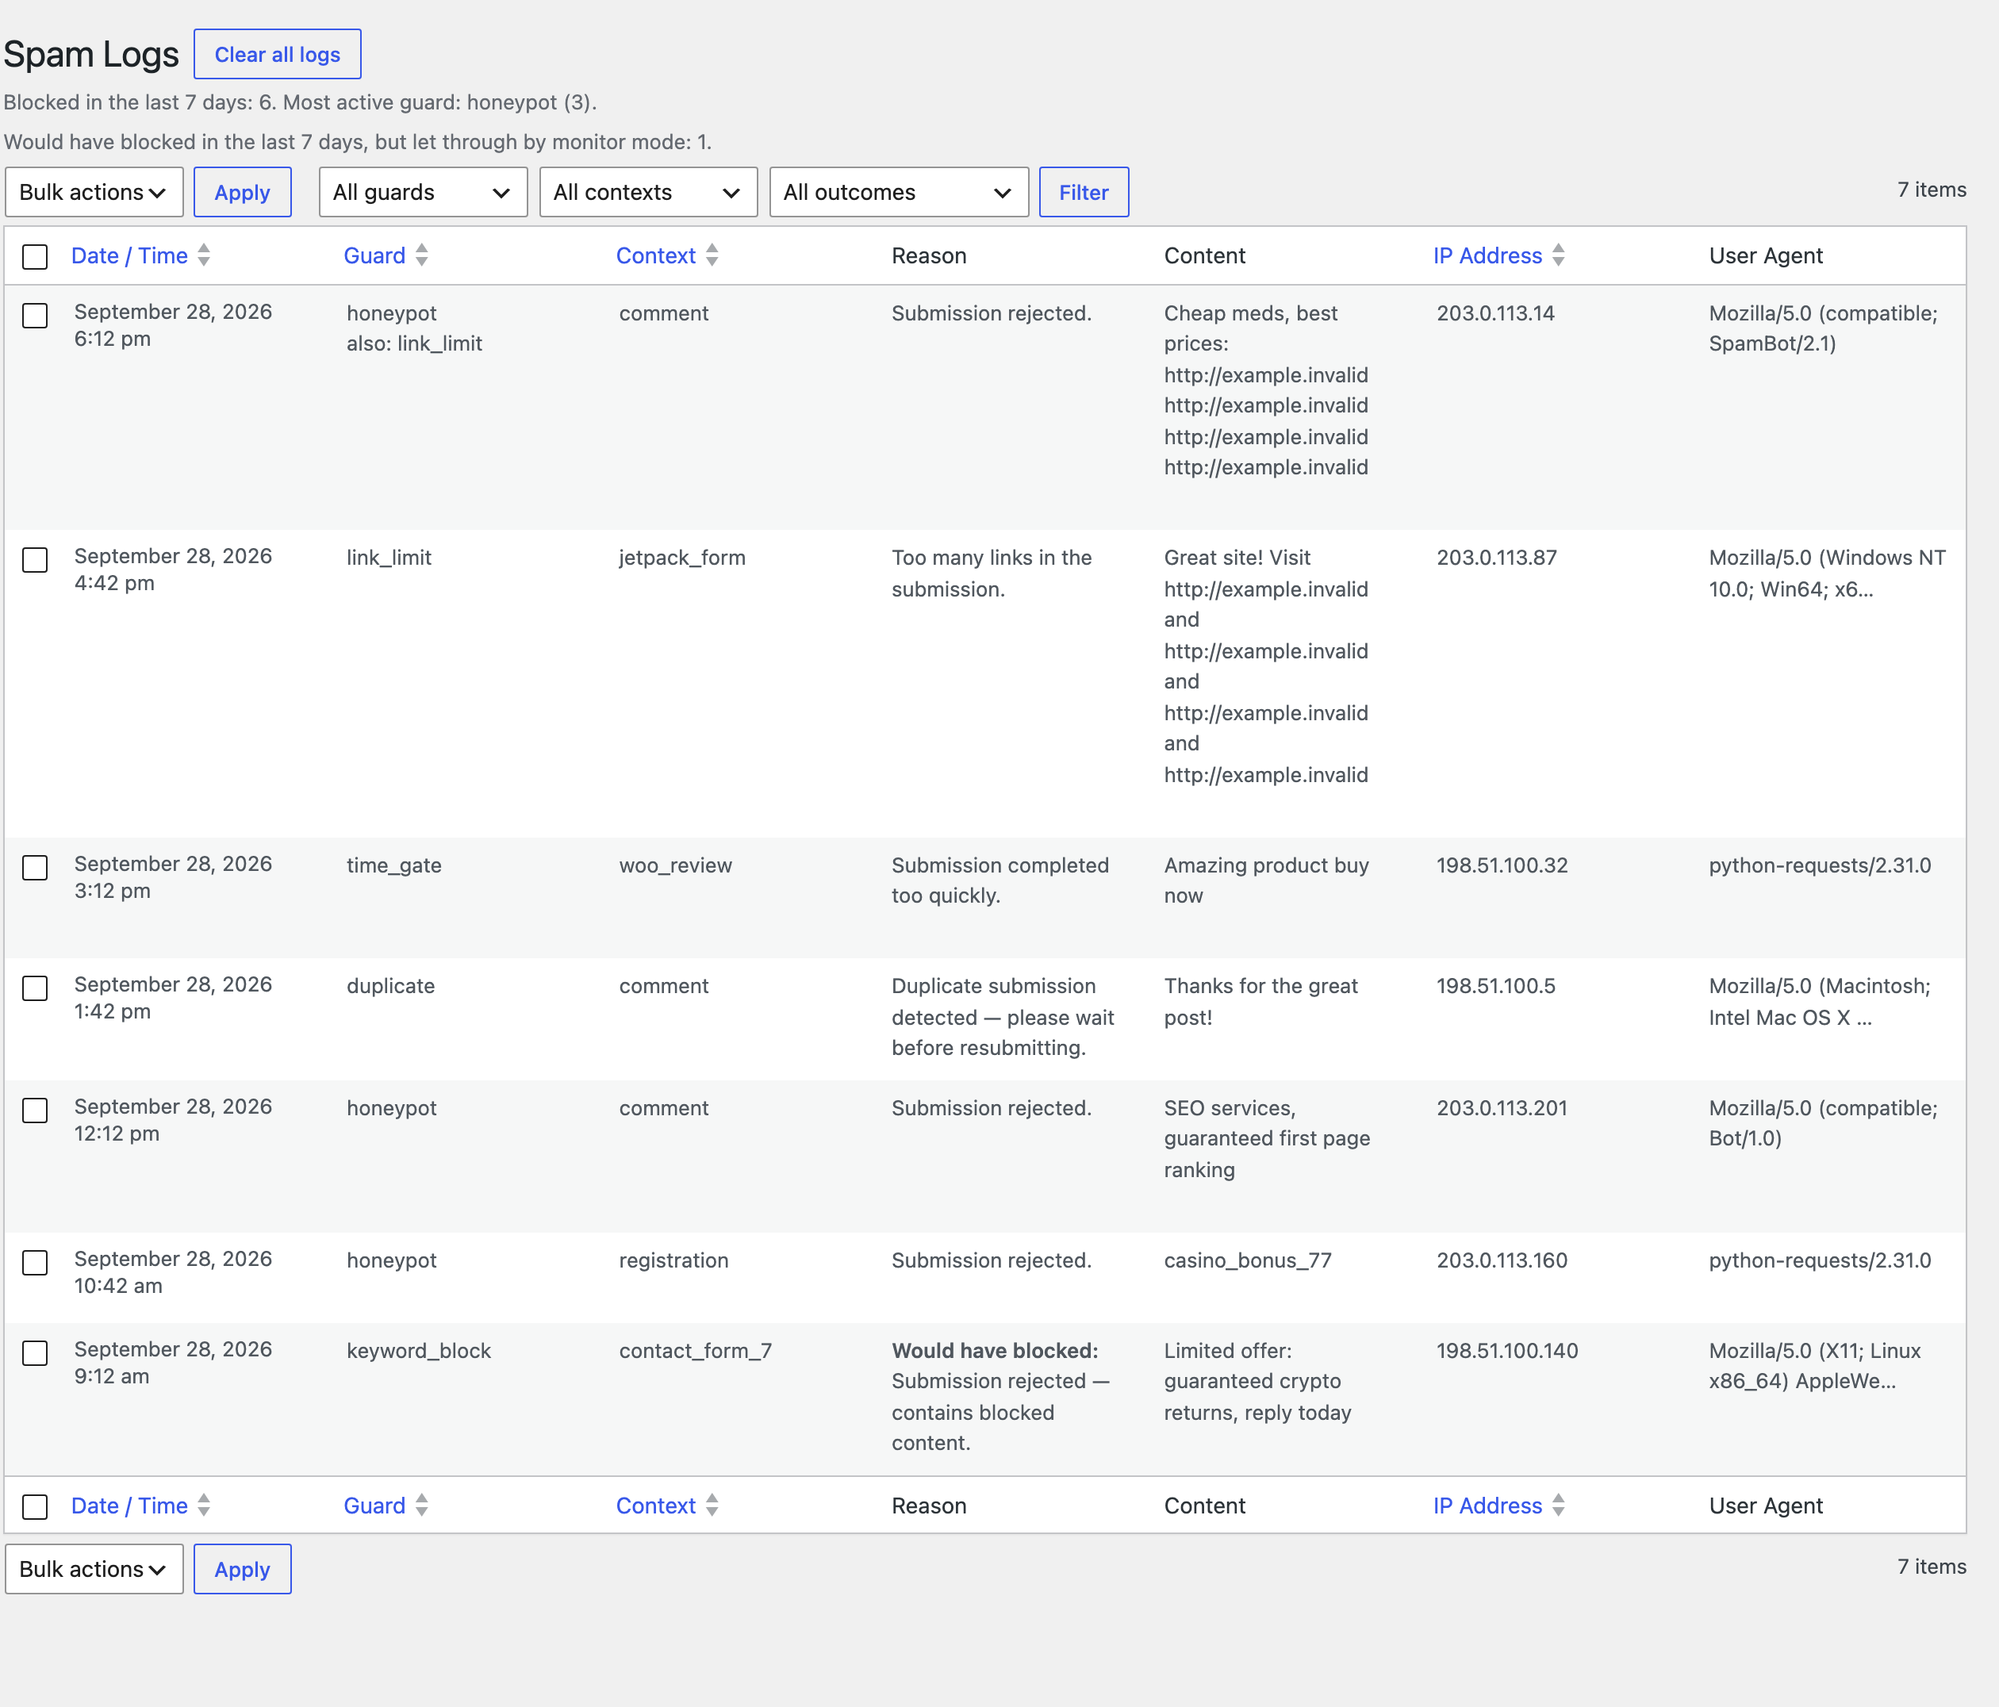
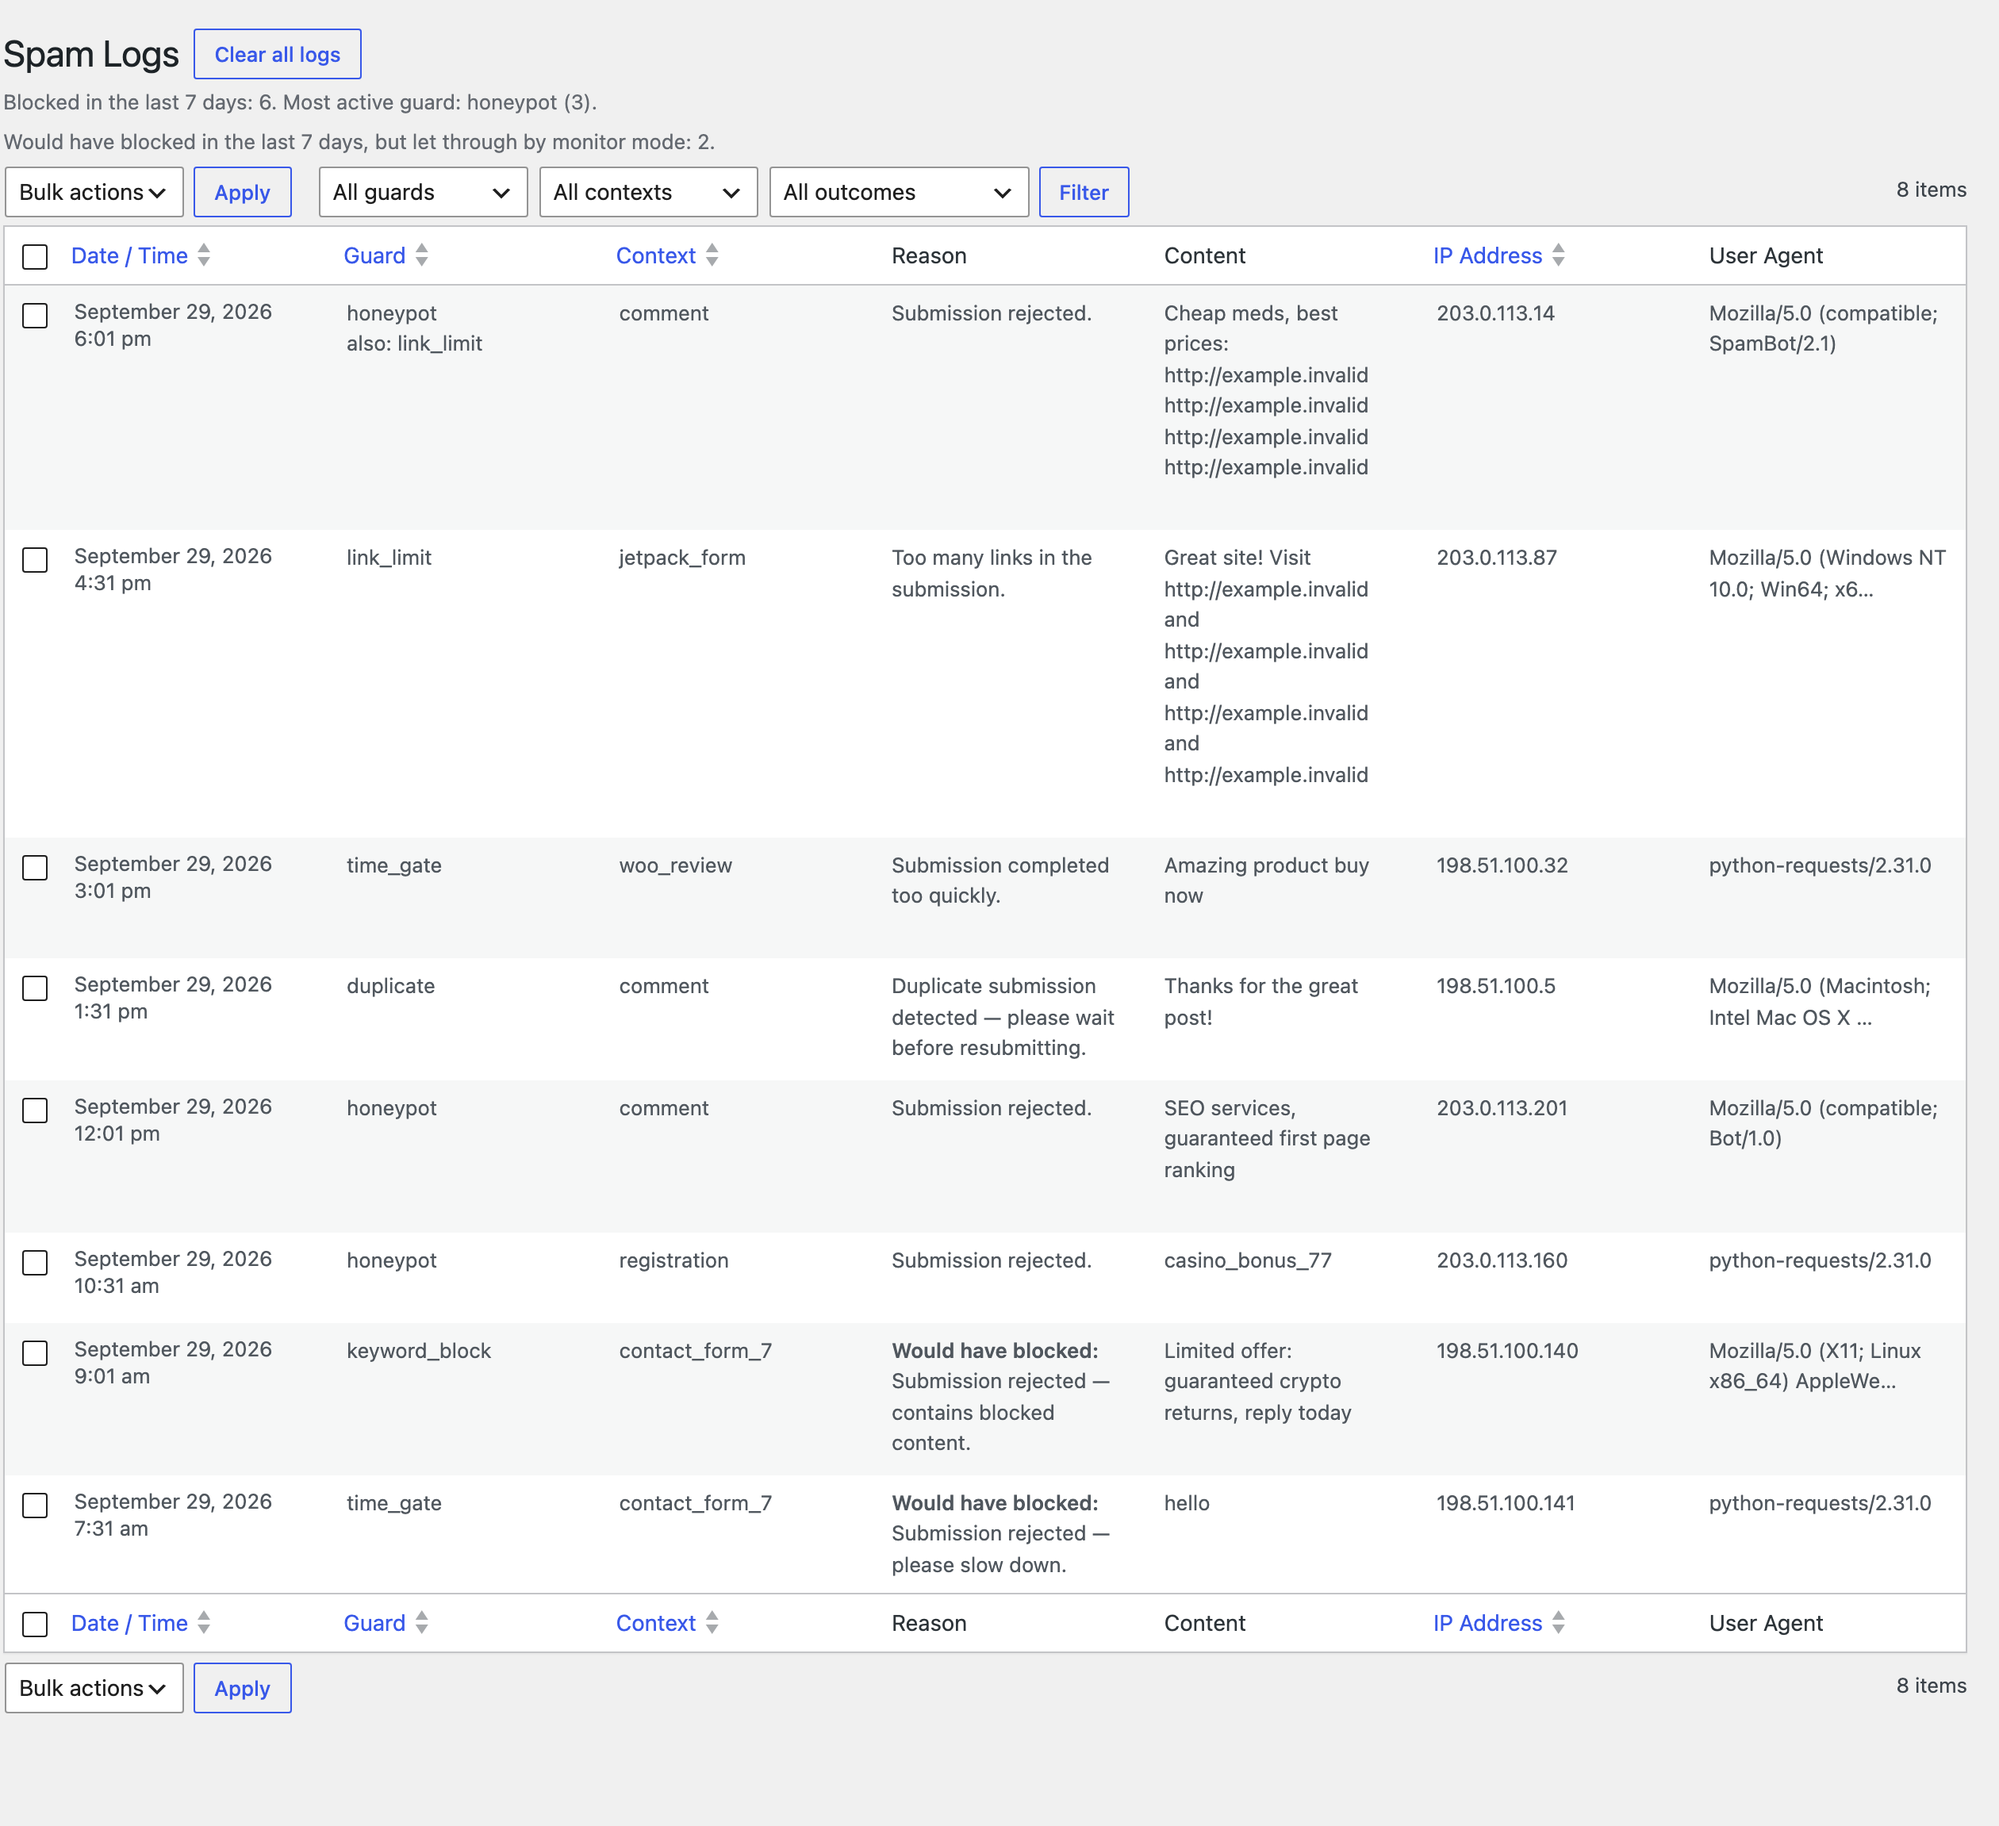
Release 1.7.0 (#69)
Version 1.7.0; readme changelog and upgrade notice; CHANGELOG dated
2026-09-29 with a compare link; .pot regenerated (164 strings).

Screenshots: the Per-form shot now shows the WP Job Manager section, whose
link limit reads "blank = use the default for this form (10)", above
Contact Form 7 in monitor mode with its review ("Monitoring since ... (5
days). 2 submissions would have been blocked: Blocked keywords 1, Minimum
submission time 1."). The Spam Logs shot gains the second monitored row.
Caption 3 describes both. The other four regenerated byte-identical.

Fixes bin/screenshots.mjs, which left the site changed after a run. It
read each fixture's previous value just before writing it, so the monitor
clock created by the mode fixture's option hook was recorded as the value
to restore and left behind; and the Spam Logs shot cached the 7-day
summary with the seeded rows in it (6 blocked, 2 monitored reported for 15
minutes on an empty log). Previous values are now read before any write,
removing the seeded rows flushes the stats, and the script fingerprints
plugin options, transients and log rows before and after and fails if they
differ. The re-run reported "site state verified unchanged".

diff --git a/onsite-spam-guard.php b/onsite-spam-guard.php
@@ -2,7 +2,7 @@
 /**
  * Plugin Name: Onsite Spam Guard
  * Description: Config-driven spam prevention for Comments, WooCommerce Reviews, and Jetpack Contact Form blocks — no external services required.
- * Version:     1.6.0
+ * Version:     1.7.0
  * Requires at least: 6.2
  * Requires PHP: 8.2
  * Author:      Jerome Wincek
@@ -19,7 +19,7 @@ if ( ! defined( 'ABSPATH' ) ) {
 }
 
 // Plugin constants.
-define( 'SIMPLE_SPAM_SHIELD_VERSION', '1.6.0' );
+define( 'SIMPLE_SPAM_SHIELD_VERSION', '1.7.0' );
 define( 'SIMPLE_SPAM_SHIELD_FILE', __FILE__ );
 define( 'SIMPLE_SPAM_SHIELD_DIR', plugin_dir_path( __FILE__ ) );
 define( 'SIMPLE_SPAM_SHIELD_URL', plugin_dir_url( __FILE__ ) );

diff --git a/CHANGELOG.md b/CHANGELOG.md
@@ -8,7 +8,7 @@ and this project adheres to [Semantic Versioning](https://semver.org/spec/v2.0.0
 The user-facing changelog shipped to WordPress.org lives in the
 `== Changelog ==` section of `readme.txt`; keep the two in sync.
 
-## [Unreleased]
+## [1.7.0] - 2026-09-29
 
 ### Added
 - Contexts can carry threshold `defaults` (#45) through the
@@ -96,6 +96,15 @@ The user-facing changelog shipped to WordPress.org lives in the
   The template is regenerated, `check-pot.sh` now excludes `build/` and fails
   on a template that references it, and the documented command in
   CONTRIBUTING.md passes `--exclude=build`.
+- `bin/screenshots.mjs` did not leave the site as it found it. It recorded each
+  fixture's previous value just before writing it, so an option created by
+  another fixture's hook — setting a monitor mode starts its clock — was
+  recorded as the value to restore and left behind. And the Spam Logs shot
+  cached the 7-day summary with the seeded rows in it, so for 15 minutes the
+  site reported blocks that never happened. Previous values are now all read
+  before any is written, removing the seeded rows clears the cache, and the
+  script fingerprints the plugin's options, transients and log row count
+  before the run and fails if they differ afterwards. Dev tooling only.
 
 ## [1.6.0] - 2026-09-28
 
@@ -522,7 +531,8 @@ Initial release.
   their own forms: `simple_spam_shield_check()`,
   `simple_spam_shield_protect_selector()`, and `simple_spam_shield_field_markup()`.
 
-[Unreleased]: https://github.com/jwincek/onsite-spam-guard/compare/v1.6.0...HEAD
+[Unreleased]: https://github.com/jwincek/onsite-spam-guard/compare/v1.7.0...HEAD
+[1.7.0]: https://github.com/jwincek/onsite-spam-guard/compare/v1.6.0...v1.7.0
 [1.6.0]: https://github.com/jwincek/onsite-spam-guard/compare/v1.5.1...v1.6.0
 [1.5.1]: https://github.com/jwincek/onsite-spam-guard/compare/v1.5.0...v1.5.1
 [1.5.0]: https://github.com/jwincek/onsite-spam-guard/compare/v1.4.0...v1.5.0
